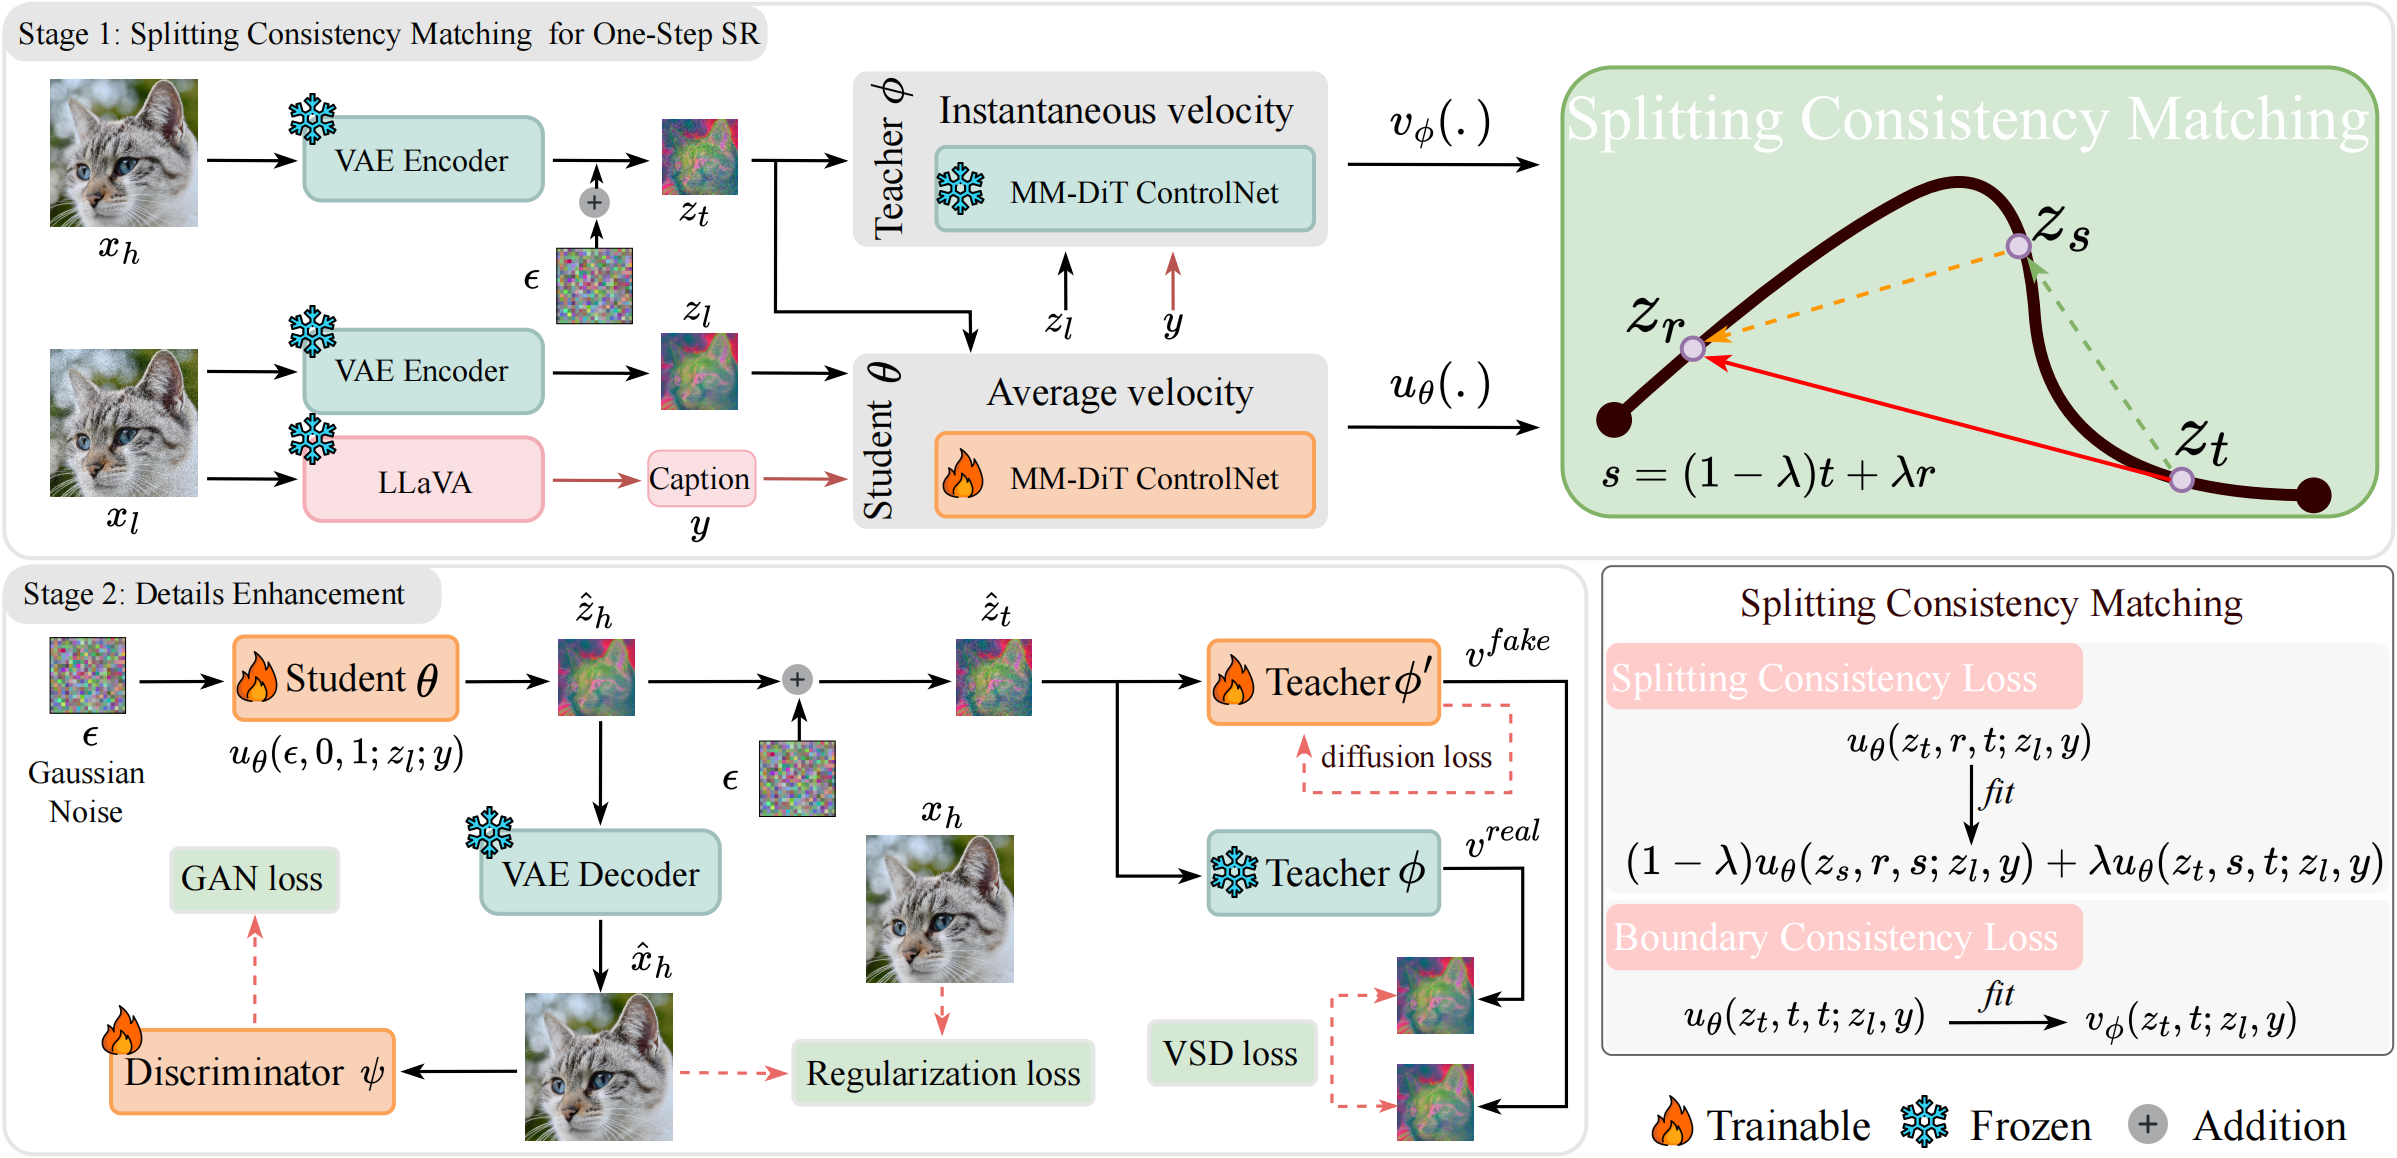
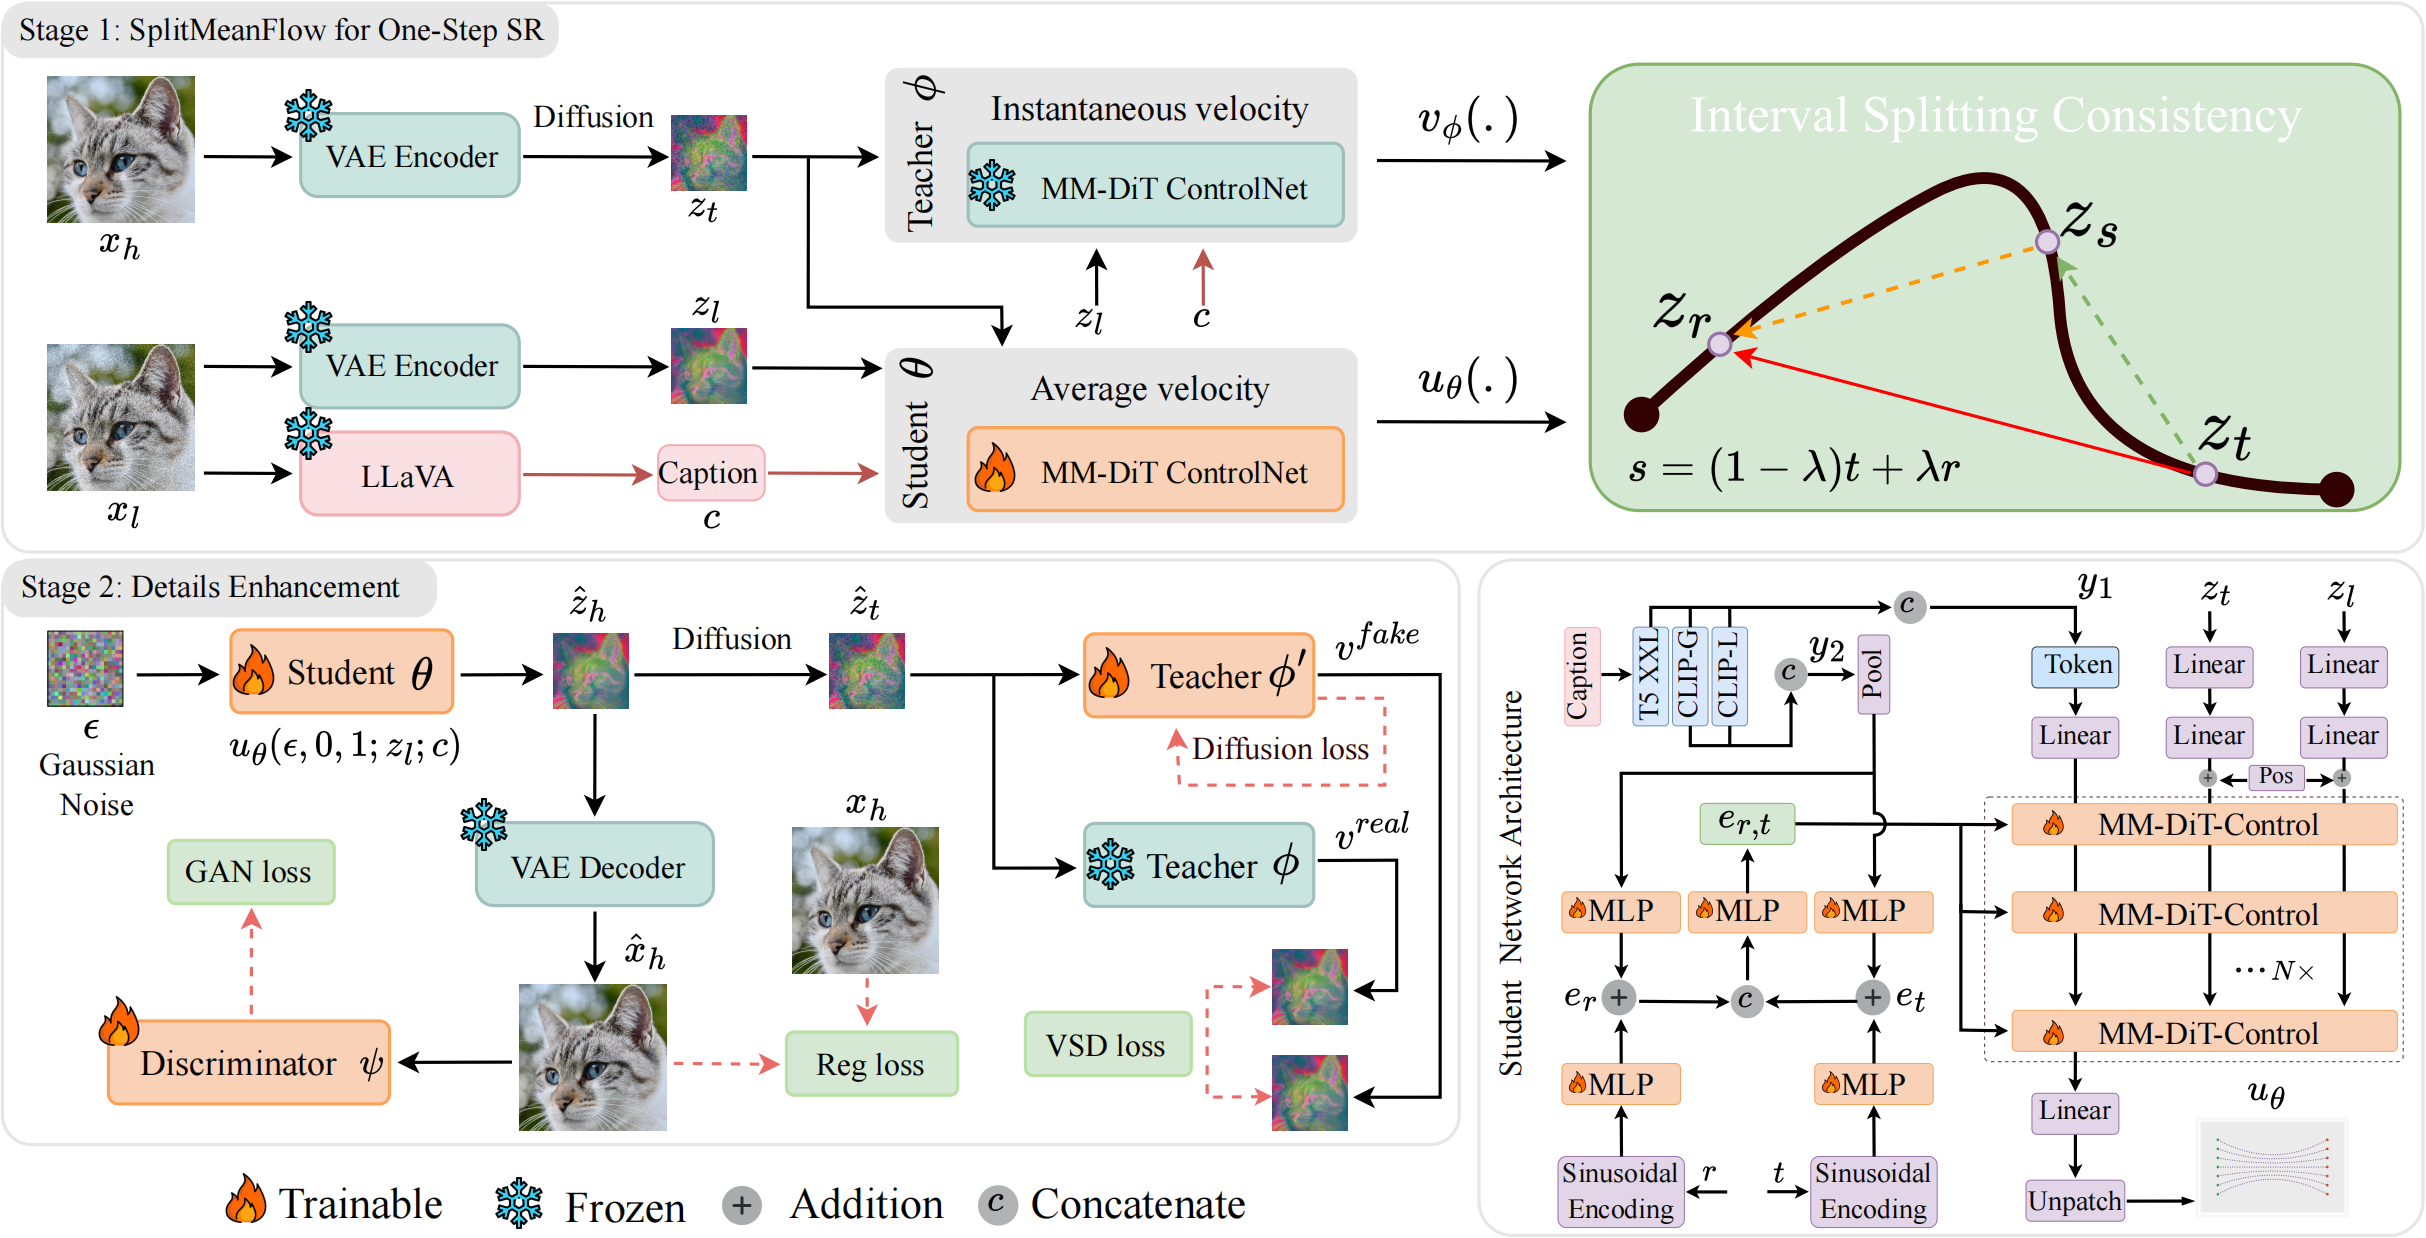
README

diff --git a/README.md b/README.md
@@ -3,15 +3,17 @@
 
   <p>
     Wei Zhu<sup>1</sup>&nbsp;&nbsp;&nbsp;&nbsp;
+    Kai Zhang<sup>2,*</sup>&nbsp;&nbsp;&nbsp;&nbsp;
     Yu Zheng<sup>1</sup>&nbsp;&nbsp;&nbsp;&nbsp;
     Lei Luo<sup>1</sup>&nbsp;&nbsp;&nbsp;&nbsp;
-    Kai Zhang<sup>2,*</sup>&nbsp;&nbsp;&nbsp;&nbsp;
+    Yong Guo<sup>3</sup>&nbsp;&nbsp;&nbsp;&nbsp;
     Jian Yang<sup>1,2,*</sup>
   </p>
 
   <p>
     <sup>1</sup>Nanjing University of Science and Technology&nbsp;&nbsp;&nbsp;&nbsp;
-    <sup>2</sup>Nanjing University
+    <sup>2</sup>Nanjing University&nbsp;&nbsp;&nbsp;&nbsp;
+    <sup>3</sup>Huawei
   </p>
 </div>
 
